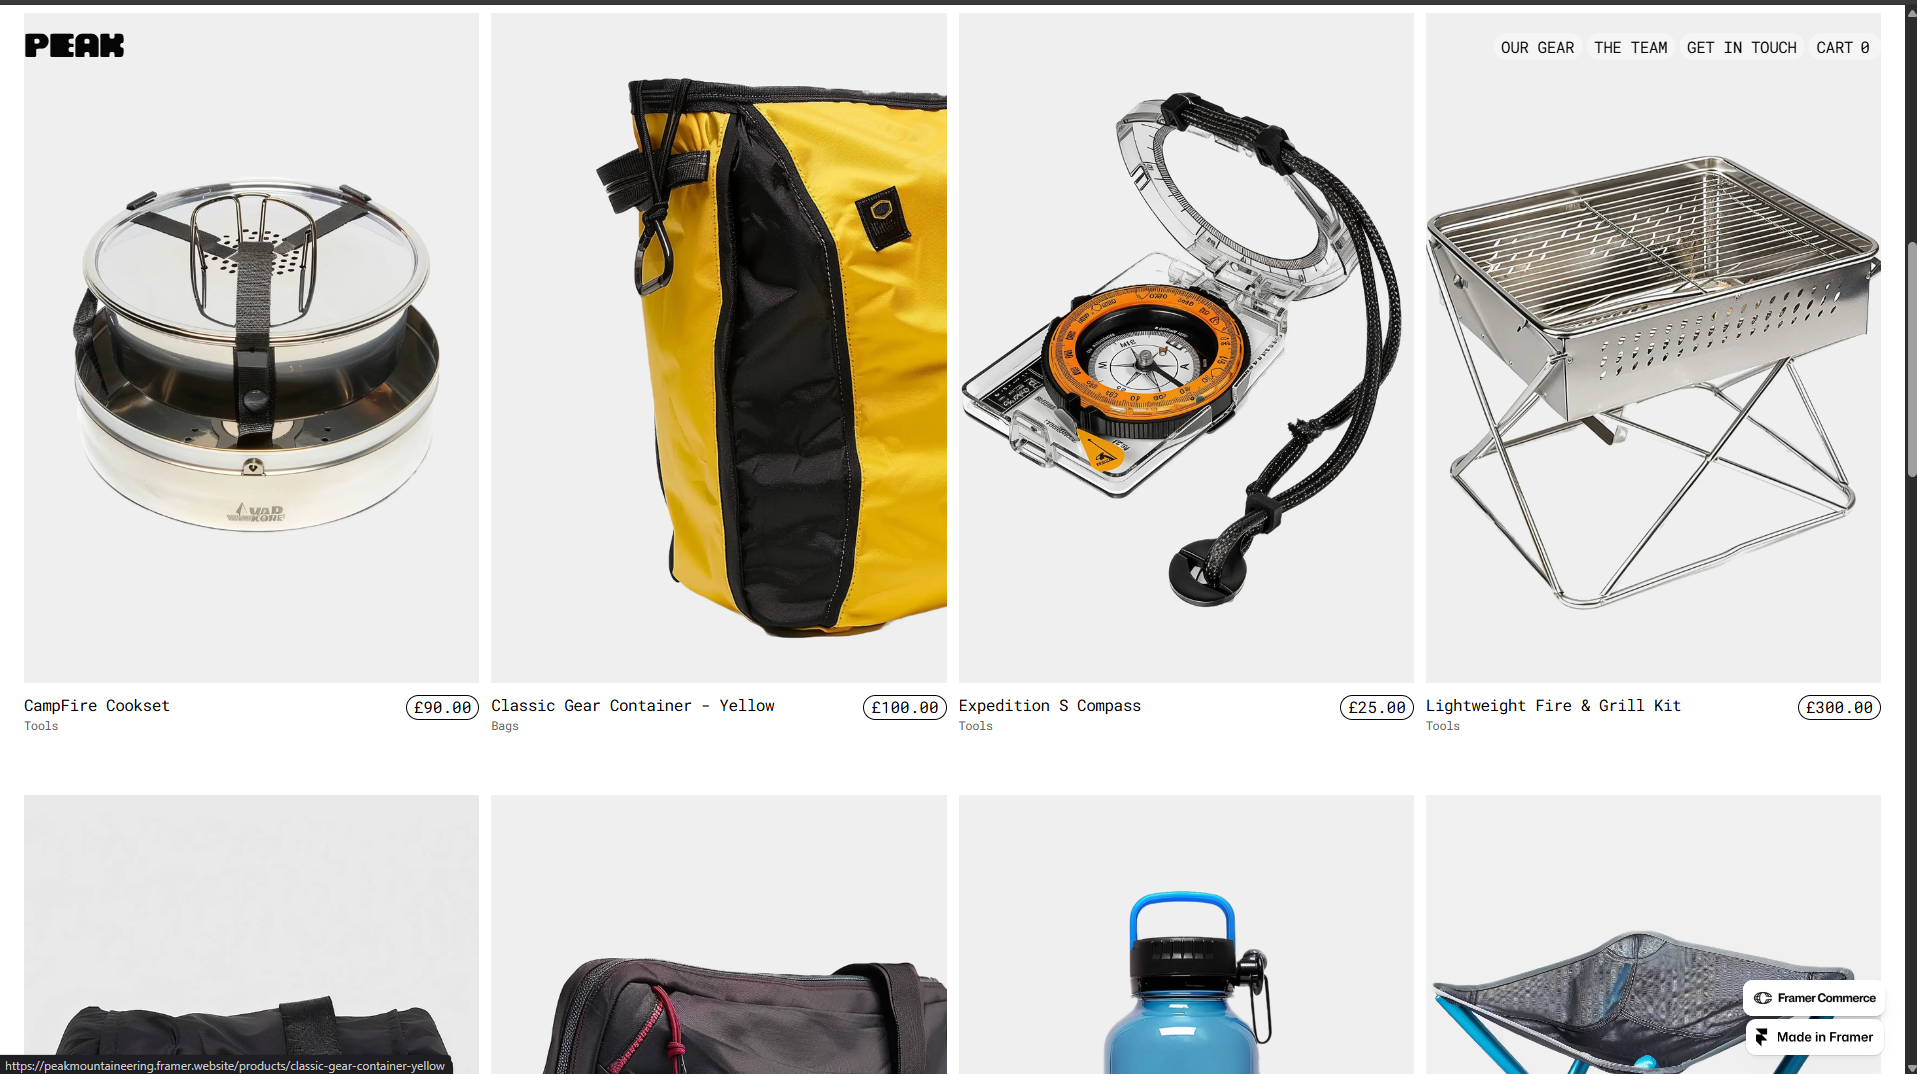
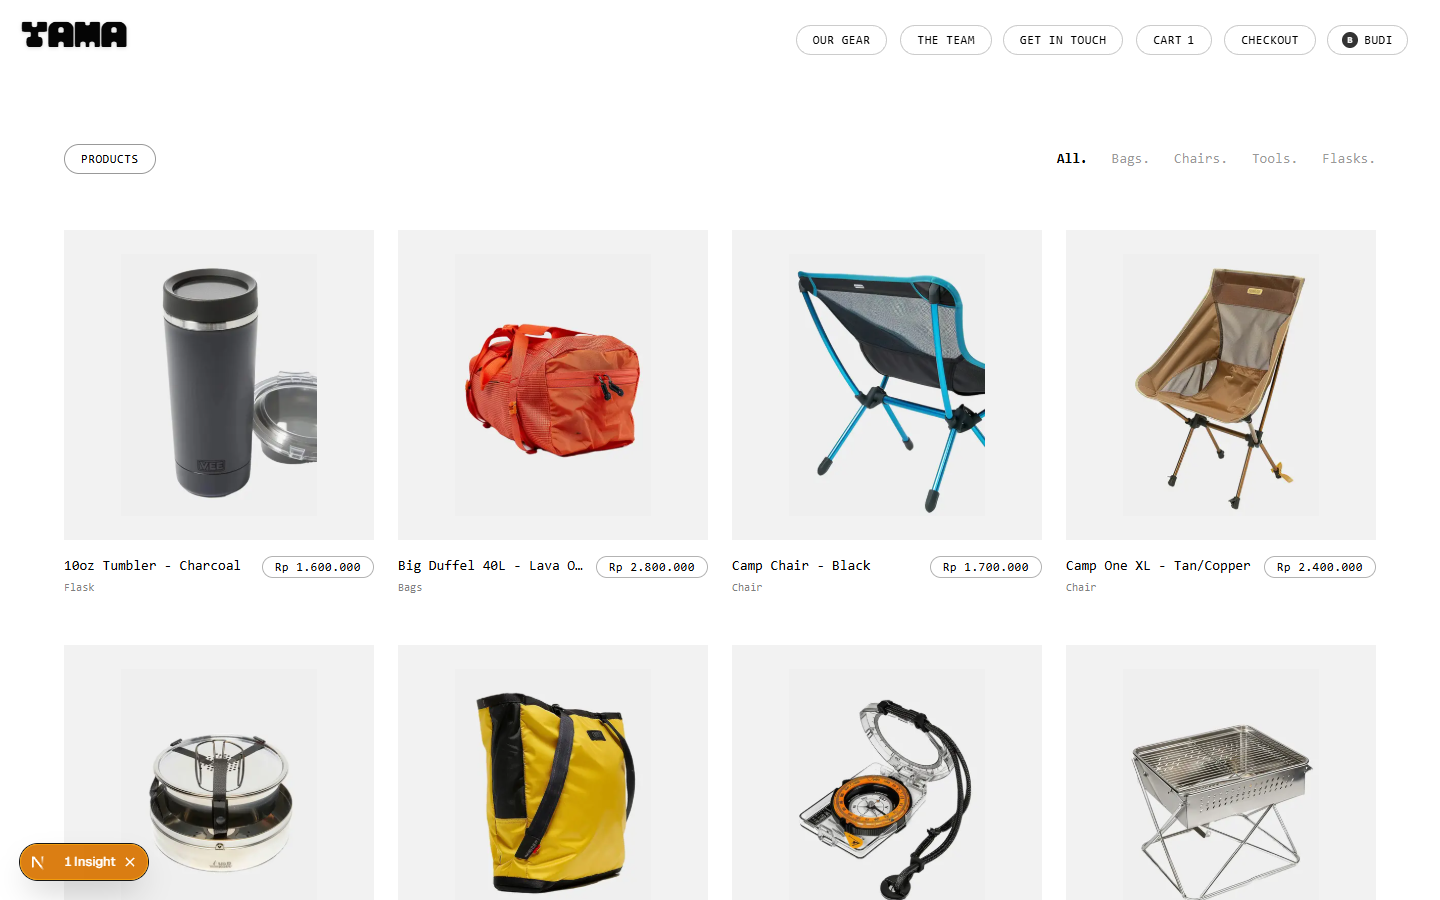
fix: replace PEAK mockups with authentic YAMA screenshots and clean up titles per antislop

diff --git a/src/data/projects.tsx b/src/data/projects.tsx
@@ -378,8 +378,8 @@ export type Project = {
 const projects: Project[] = [
   {
     id: "ruang-studio",
-    category: "Full-Stack E-Commerce & Omnichannel Sync",
-    title: "RUANG: Contemporary Fashion Studio & E-Commerce",
+    category: "E-Commerce",
+    title: "RUANG",
     src: "/assets/projects-screenshots/ruang/1.png",
     screenshots: ["1.png", "2.png", "3.png"],
     live: "https://ruangg.vercel.app/",
@@ -403,27 +403,27 @@ const projects: Project[] = [
         <div>
           <div className="mb-4 inline-flex items-center gap-2 px-3 py-1 rounded-full text-xs font-mono font-medium bg-neutral-500/10 text-neutral-300 border border-neutral-500/30">
             <span className="w-1.5 h-1.5 rounded-full bg-neutral-300" />
-            Full-Stack E-Commerce Architecture
+            E-Commerce
           </div>
           <TypographyP className="font-mono text-base mb-4 leading-relaxed">
-            Platform e-commerce studio busana kontemporer berbasis <strong>Next.js 16 (App Router)</strong>, <strong>PostgreSQL</strong>, dan <strong>Prisma ORM</strong>. Dirancang untuk volume transaksi tinggi dengan sinkronisasi inventaris omnichannel real-time, sistem distributed lock untuk mencegah overselling, dan gateway pembayaran terverifikasi secara kriptografis.
+            Platform e-commerce busana yang dibangun dengan Next.js 16 (App Router), PostgreSQL, Prisma ORM, dan Redis. Menangani sinkronisasi inventaris multi-channel otomatis, sistem penguncian stok saat checkout untuk mencegah overselling, integrasi pembayaran Midtrans, dan pelacakan pengiriman kurir.
           </TypographyP>
           <div className="grid grid-cols-1 md:grid-cols-2 gap-3 my-4">
             <div className="p-3 bg-zinc-900/60 rounded-lg border border-zinc-800">
-              <h5 className="font-semibold text-white text-sm mb-1">Sinkronisasi Omnichannel BigSeller</h5>
-              <p className="text-xs text-zinc-400 leading-relaxed">Integrasi BigSeller Open API dengan HMAC-SHA256 signature authorization untuk sinkronisasi stok dua arah otomatis antara website dan marketplace (Shopee, Tokopedia, TikTok Shop, Lazada).</p>
+              <h5 className="font-semibold text-white text-sm mb-1">Sinkronisasi Stok BigSeller</h5>
+              <p className="text-xs text-zinc-400 leading-relaxed">Sinkronisasi dua arah otomatis antara etalase website dan marketplace (Shopee, Tokopedia, TikTok Shop, Lazada) menggunakan BigSeller Open API dengan otorisasi HMAC-SHA256.</p>
             </div>
             <div className="p-3 bg-zinc-900/60 rounded-lg border border-zinc-800">
-              <h5 className="font-semibold text-white text-sm mb-1">Distributed Stock Lock (15-Menit TTL)</h5>
-              <p className="text-xs text-zinc-400 leading-relaxed">Mekanisme locking berbasis Redis pada proses checkout untuk mengamankan alokasi stok selama 15 menit, mencegah race condition dan overselling pada traffic lonjakan rilisan terbatas.</p>
+              <h5 className="font-semibold text-white text-sm mb-1">Penguncian Stok Checkout (15 Menit)</h5>
+              <p className="text-xs text-zinc-400 leading-relaxed">Distributed locking berbasis Redis untuk mengunci ketersediaan unit selama 15 menit saat proses checkout berlangsung guna mencegah race condition dan overselling.</p>
             </div>
             <div className="p-3 bg-zinc-900/60 rounded-lg border border-zinc-800">
-              <h5 className="font-semibold text-white text-sm mb-1">Payment Gateway & Verifikasi Webhook</h5>
-              <p className="text-xs text-zinc-400 leading-relaxed">Pemrosesan transaksi Midtrans mendukung Dynamic QRIS dan Virtual Account (BCA, Mandiri, BRI) dengan verifikasi hash SHA-512 webhook signature guna memastikan idempotensi mutasi pembayaran.</p>
+              <h5 className="font-semibold text-white text-sm mb-1">Pembayaran Midtrans & Webhook</h5>
+              <p className="text-xs text-zinc-400 leading-relaxed">Mendukung Dynamic QRIS dan Virtual Account perbankan (BCA, Mandiri, BRI) dengan verifikasi hash SHA-512 webhook signature untuk memastikan status pesanan akurat.</p>
             </div>
             <div className="p-3 bg-zinc-900/60 rounded-lg border border-zinc-800">
-              <h5 className="font-semibold text-white text-sm mb-1">Pelacakan Logistik & Ingestion Massal</h5>
-              <p className="text-xs text-zinc-400 leading-relaxed">Integrasi pipeline pelacakan nomor resi multi-ekspedisi real-time (J&T, SiCepat, JNE) serta otomasi import katalog produk via parsing Excel/CSV dengan validasi runtime skema Zod.</p>
+              <h5 className="font-semibold text-white text-sm mb-1">Pelacakan Resi & Ingestion Katalog</h5>
+              <p className="text-xs text-zinc-400 leading-relaxed">Integrasi pelacakan nomor resi pengiriman kurir (J&T, SiCepat, JNE) serta fitur import katalog produk massal dari file Excel/CSV dengan validasi skema Zod.</p>
             </div>
           </div>
           <ProjectsLinks live={this.live} repo={this.github} />
@@ -440,8 +440,8 @@ const projects: Project[] = [
   },
   {
     id: "yama-alpine",
-    category: "High-Performance E-Commerce & Interactive UI",
-    title: "YAMA: High-Performance Alpine & Mountaineering Equipment Store",
+    category: "Outdoor Storefront",
+    title: "YAMA",
     src: "/assets/projects-screenshots/yama/1.png",
     screenshots: ["1.png", "2.png", "3.png", "4.png"],
     live: "https://github.com/nawafnaofal/sec-ecommerce",
@@ -463,27 +463,27 @@ const projects: Project[] = [
         <div>
           <div className="mb-4 inline-flex items-center gap-2 px-3 py-1 rounded-full text-xs font-mono font-medium bg-amber-500/10 text-amber-400 border border-amber-500/30">
             <span className="w-1.5 h-1.5 rounded-full bg-amber-400" />
-            Interactive Storefront Engineering
+            E-Commerce Storefront
           </div>
           <TypographyP className="font-mono text-base mb-4 leading-relaxed">
-            Storefront e-commerce perlengkapan alpine performa tinggi yang dibangun dengan <strong>Next.js 16 (App Router)</strong>, <strong>React 19</strong>, <strong>Tailwind CSS v4</strong>, dan <strong>Framer Motion</strong>. Menghadirkan interaksi tipografi kinetik tersinkronisasi scroll, render footer curtain fisik, serta simulasi checkout transaksi digital Indonesia.
+            Storefront e-commerce perlengkapan outdoor berbasis Next.js 16, React 19, Tailwind CSS v4, dan Framer Motion. Mengimplementasikan tipografi kinetik yang bertransisi ke navbar saat di-scroll, footer reveal, drawer keranjang belanja reaktif, serta simulasi alur pembayaran QRIS dan Virtual Account.
           </TypographyP>
           <div className="grid grid-cols-1 md:grid-cols-2 gap-3 my-4">
             <div className="p-3 bg-zinc-900/60 rounded-lg border border-zinc-800">
-              <h5 className="font-semibold text-white text-sm mb-1">Tipografi Kinetik & Kontras Dinamis</h5>
-              <p className="text-xs text-zinc-400 leading-relaxed">Font kustom variabel (TMT Mini Mochi) yang bertransformasi secara proporsional dari hero center ke 108px docked navigation, disertai deteksi luminance untuk pembalikan warna adaptif pada setiap section latar belakang.</p>
+              <h5 className="font-semibold text-white text-sm mb-1">Tipografi Kinetik & Penyesuaian Kontras</h5>
+              <p className="text-xs text-zinc-400 leading-relaxed">Font variabel kustom yang bertransformasi proporsional dari hero center ke bilah navigasi 108px seiring scroll, dengan penyesuaian warna otomatis terhadap kontras latar belakang.</p>
             </div>
             <div className="p-3 bg-zinc-900/60 rounded-lg border border-zinc-800">
-              <h5 className="font-semibold text-white text-sm mb-1">Transisi Curtain Sticky Reveal Footer</h5>
-              <p className="text-xs text-zinc-400 leading-relaxed">Arsitektur footer tersembunyi dengan positioning sticky-fixed setinggi viewport di lapisan terbawah layout, menghadirkan transisi fisik mulus tanpa layout shift atau beban komputasi GPU berlebih.</p>
+              <h5 className="font-semibold text-white text-sm mb-1">Transisi Curtain Reveal Footer</h5>
+              <p className="text-xs text-zinc-400 leading-relaxed">Struktur footer sticky-fixed setinggi layar di lapisan terbawah layout untuk menghasilkan transisi reveal fisik saat konten utama selesai di-scroll.</p>
             </div>
             <div className="p-3 bg-zinc-900/60 rounded-lg border border-zinc-800">
-              <h5 className="font-semibold text-white text-sm mb-1">State Keranjang & Optimistic Update</h5>
-              <p className="text-xs text-zinc-400 leading-relaxed">Komponen drawer keranjang reaktif dengan kalkulasi otomatis subtotal dan pajak, manipulasi kuantitas item, serta sinkronisasi badge counter global yang bebas re-render tidak perlu.</p>
+              <h5 className="font-semibold text-white text-sm mb-1">Drawer Keranjang Belanja Reaktif</h5>
+              <p className="text-xs text-zinc-400 leading-relaxed">Manajemen state keranjang dengan kalkulasi subtotal dan pajak secara langsung, mutasi jumlah barang, serta sinkronisasi indikator keranjang tanpa re-render berlebih.</p>
             </div>
             <div className="p-3 bg-zinc-900/60 rounded-lg border border-zinc-800">
-              <h5 className="font-semibold text-white text-sm mb-1">Simulator Pembayaran Domestik</h5>
-              <p className="text-xs text-zinc-400 leading-relaxed">Alur checkout interaktif yang mensimulasikan sistem pembayaran nasional: Dynamic QRIS dengan countdown timer otomatis, nomor Virtual Account Bank (BCA, Mandiri, BRI, BNI) dengan 1-click clipboard copy, dan form validasi alamat.</p>
+              <h5 className="font-semibold text-white text-sm mb-1">Simulasi Pembayaran Indonesia</h5>
+              <p className="text-xs text-zinc-400 leading-relaxed">Alur transaksi mencakup Dynamic QRIS dengan timer hitung mundur, Virtual Account bank nasional (BCA, Mandiri, BRI, BNI) dengan salin nomor sekali klik, dan form pengiriman.</p>
             </div>
           </div>
           <ProjectsLinks live={this.live} repo={this.github} />

diff --git a/src/app/projects/page.tsx b/src/app/projects/page.tsx
@@ -11,8 +11,8 @@ import "@splidejs/react-splide/css";
 const PROJECTS = [
   {
     id: 1,
-    name: "RUANG: Contemporary Fashion Studio & E-Commerce",
-    description: "Platform e-commerce studio busana kontemporer berbasis Next.js 16 (App Router), PostgreSQL, Prisma, dan Redis. Dilengkapi sinkronisasi inventaris omnichannel BigSeller (Shopee/Tokopedia/TikTok), distributed stock lock 15 menit, Midtrans Payment Gateway (QRIS/VA), dan pelacakan resi multi-ekspedisi.",
+    name: "RUANG",
+    description: "Platform e-commerce busana berbasis Next.js 16 (App Router), PostgreSQL, Prisma, dan Redis. Dilengkapi sinkronisasi stok BigSeller dengan marketplace, sistem penguncian stok checkout 15 menit, pembayaran Midtrans, dan pelacakan resi kurir.",
     link: "https://ruangg.vercel.app/",
     images: [
       "/assets/projects-screenshots/ruang/1.png",
@@ -22,8 +22,8 @@ const PROJECTS = [
   },
   {
     id: 2,
-    name: "YAMA: High-Performance Alpine & Mountaineering Equipment Store",
-    description: "Storefront e-commerce perlengkapan alpine performa tinggi dengan tipografi kinetik (TMT Mini Mochi) berbasis scroll, transisi footer curtain reveal, reactive cart drawer, dan simulator pembayaran e-commerce Indonesia (QRIS, VA Bank, E-Wallet).",
+    name: "YAMA",
+    description: "Storefront e-commerce perlengkapan outdoor berbasis Next.js 16, React 19, Tailwind CSS v4, dan Framer Motion. Menampilkan tipografi kinetik yang bertransisi ke navbar saat di-scroll, footer reveal, drawer keranjang belanja reaktif, dan alur pembayaran QRIS serta Virtual Account.",
     link: "https://github.com/nawafnaofal/sec-ecommerce",
     images: [
       "/assets/projects-screenshots/yama/1.png",
